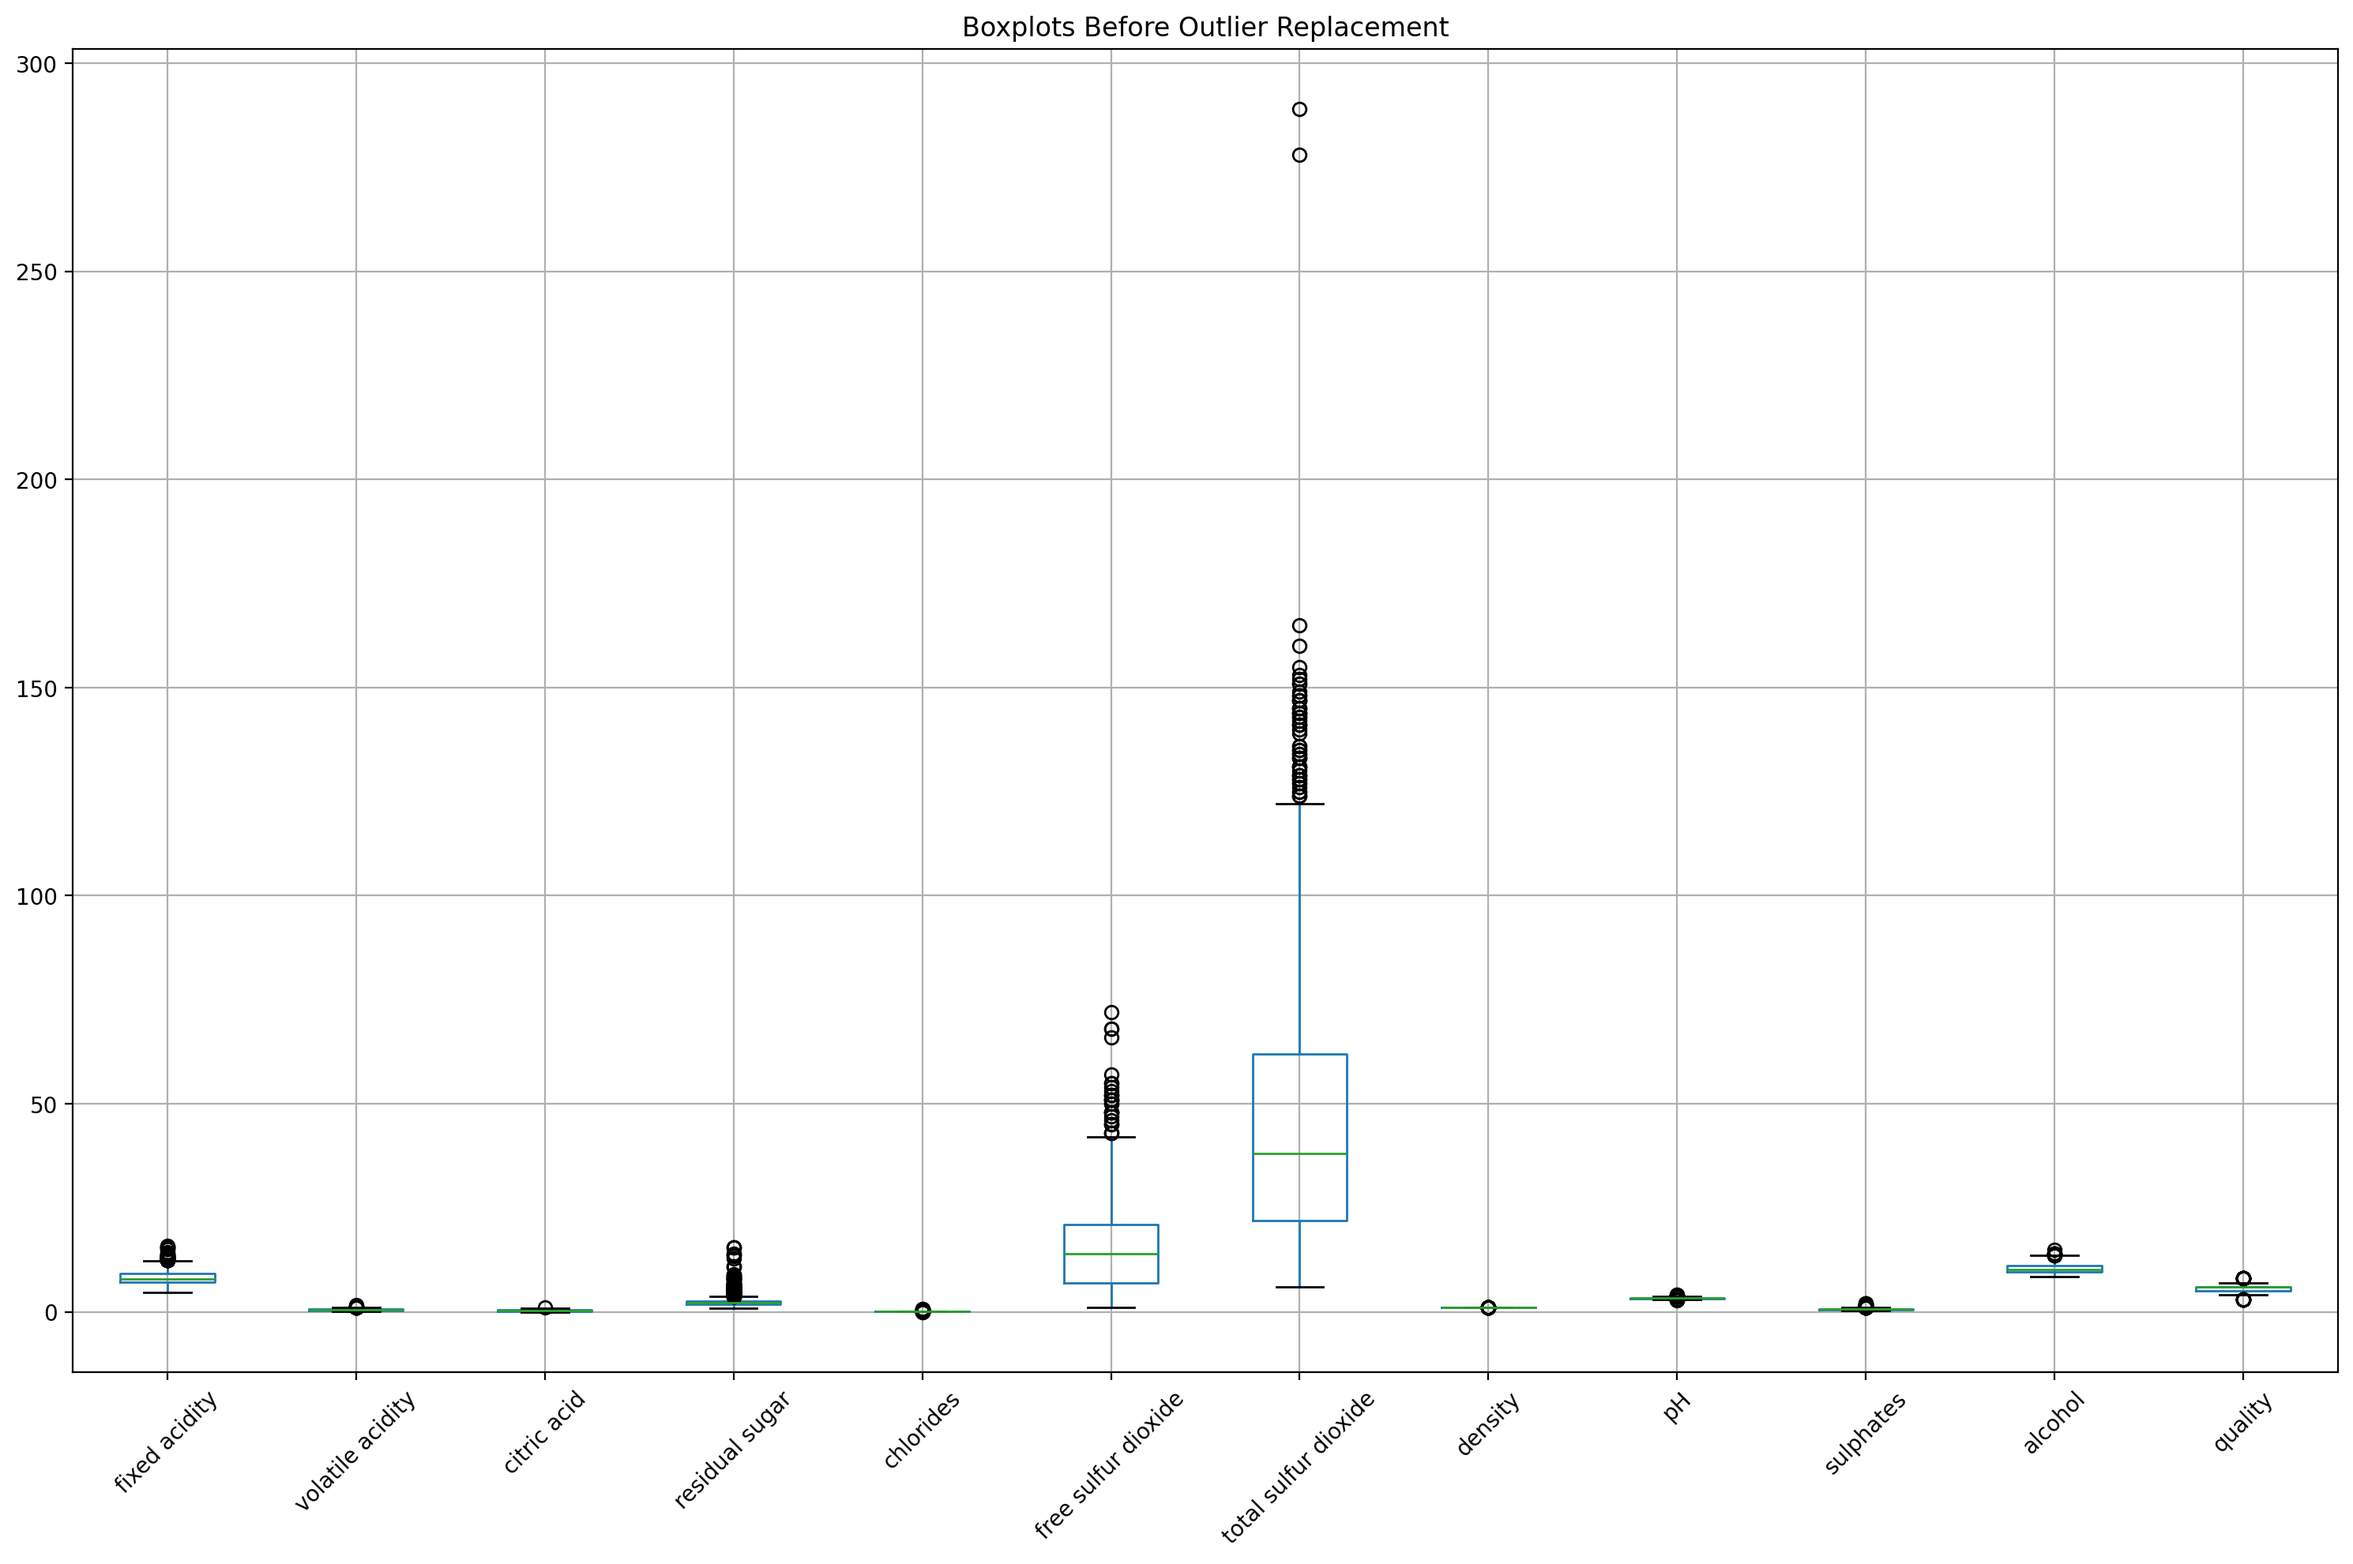
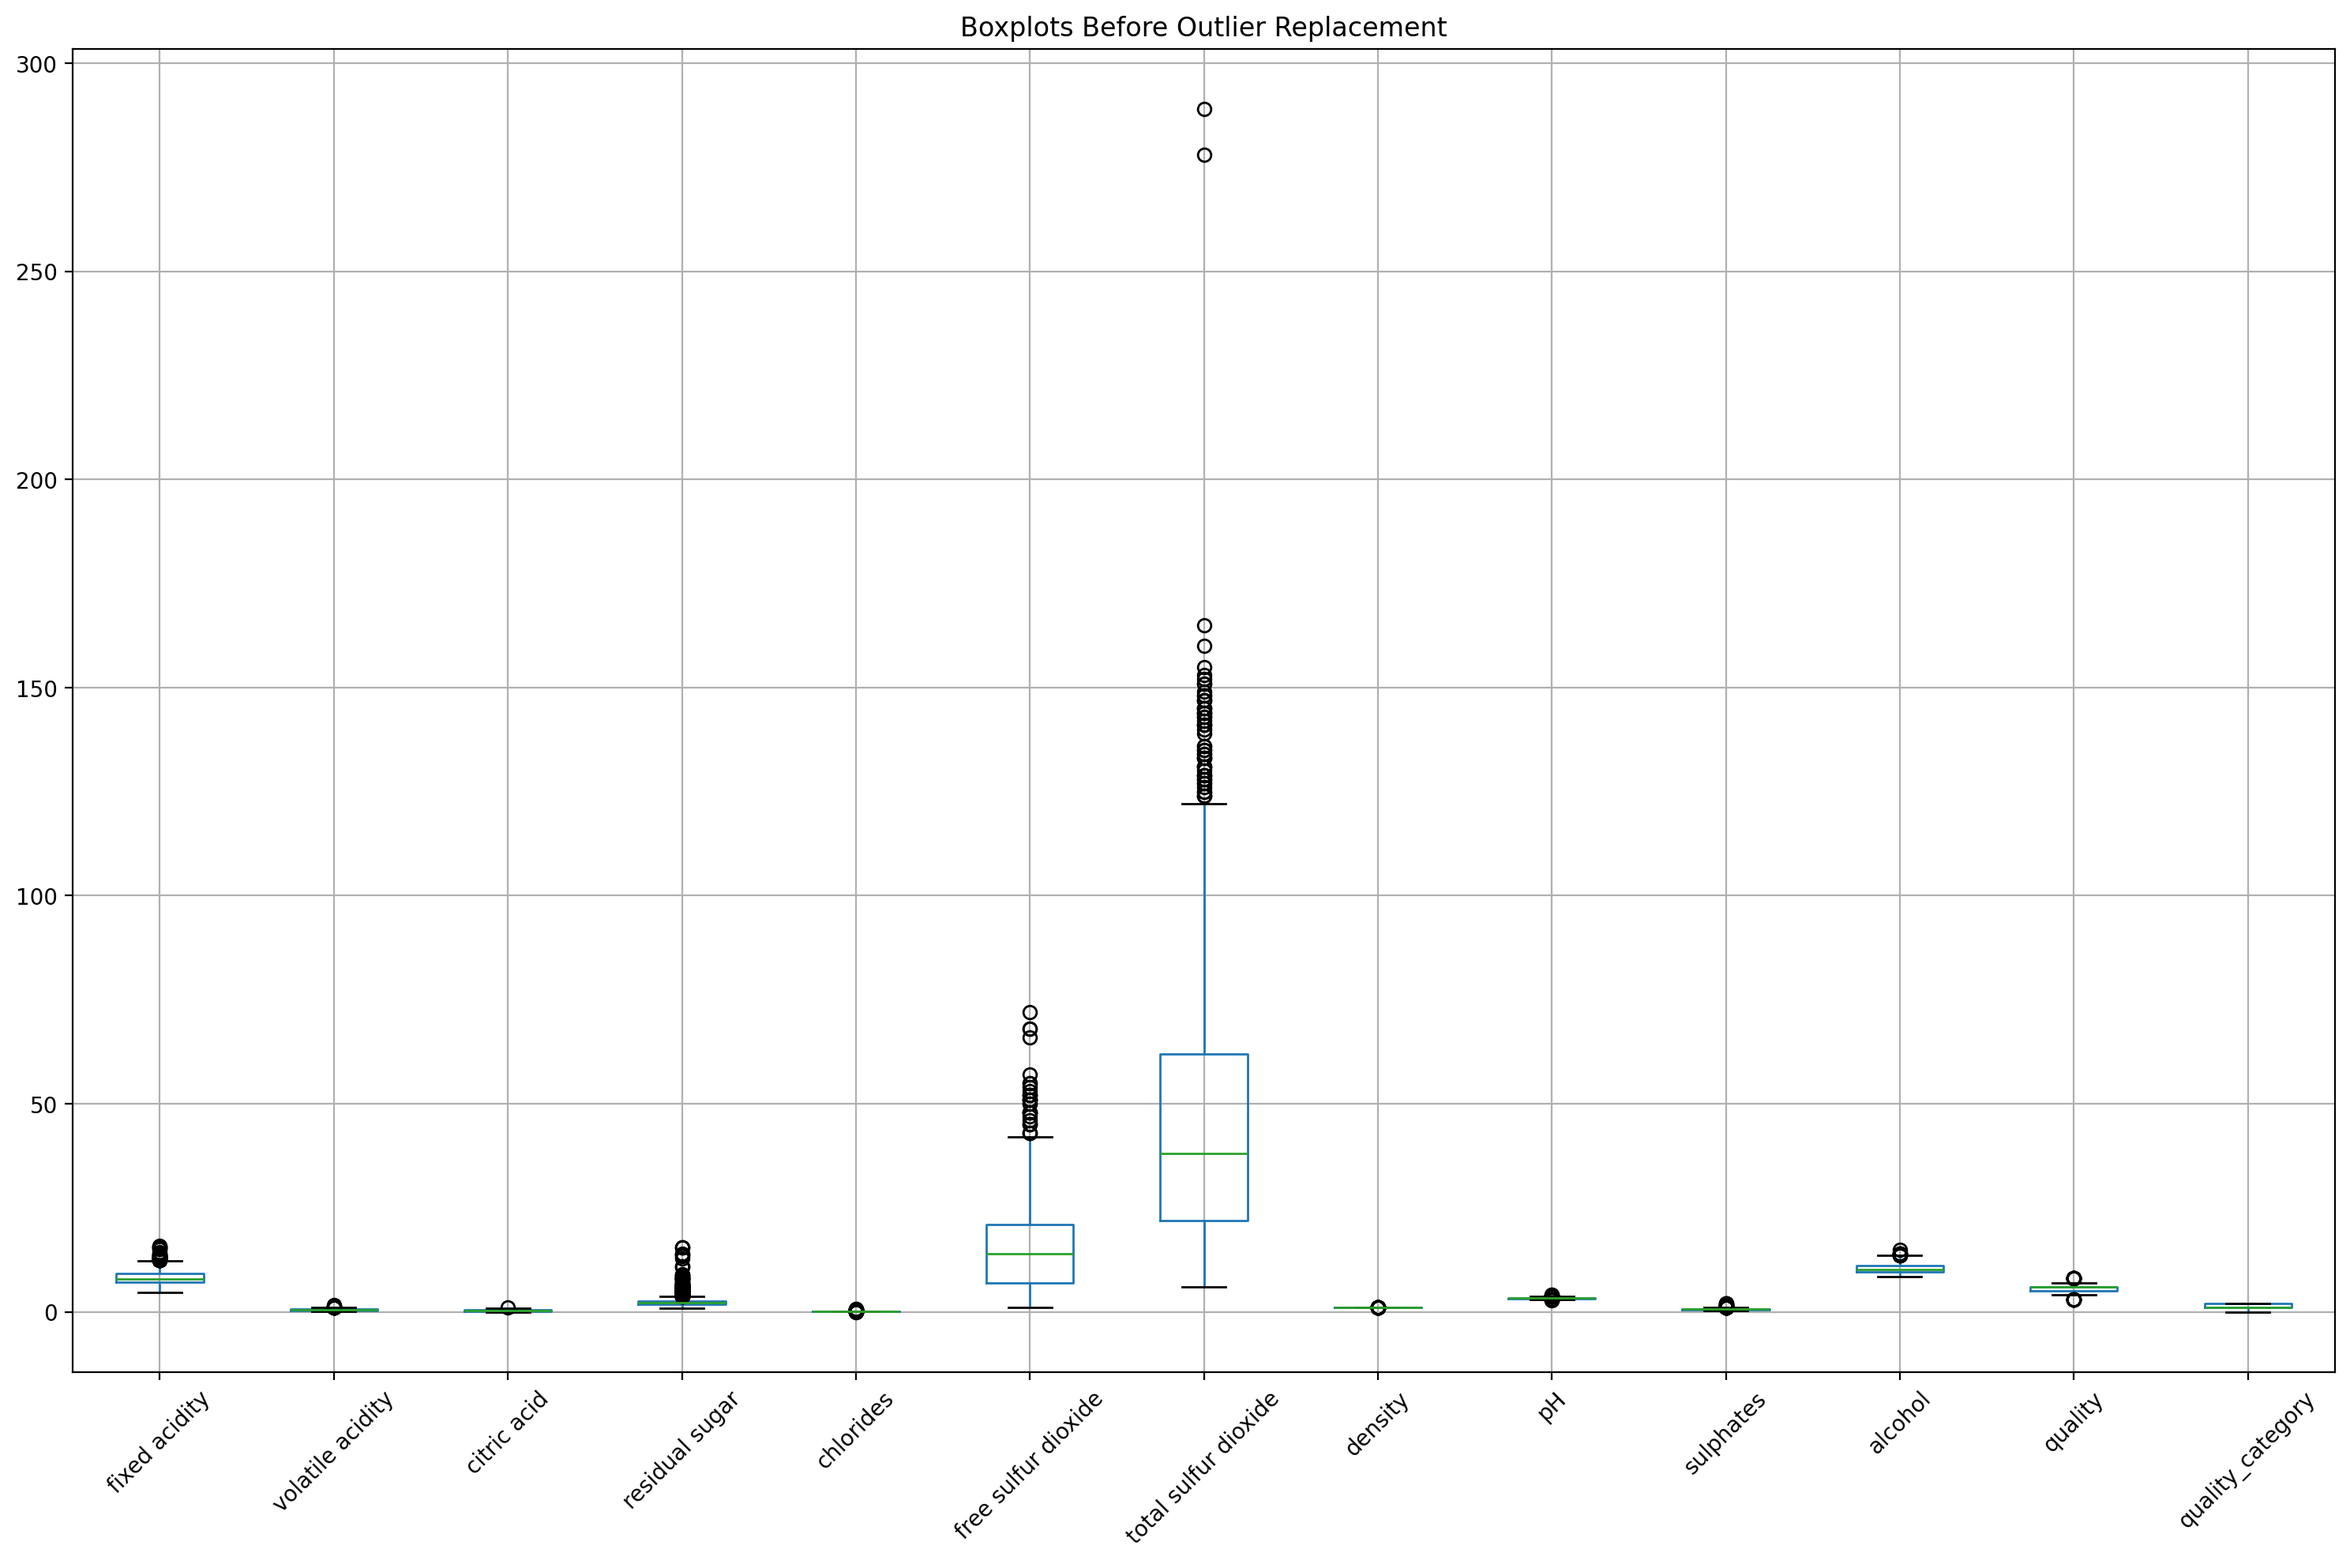
Test.py düzenlendi.

diff --git a/Miuul_Proje/Test.py b/Miuul_Proje/Test.py
@@ -1,11 +1,13 @@
 import pandas as pd
 import numpy as np
 import matplotlib.pyplot as plt
-from sklearn.model_selection import train_test_split
+from sklearn.model_selection import train_test_split, cross_val_score, GridSearchCV
 from sklearn.metrics import accuracy_score, classification_report, confusion_matrix
 from sklearn.ensemble import RandomForestClassifier
 from sklearn.linear_model import LogisticRegression
 from xgboost import XGBClassifier
+from sklearn.preprocessing import StandardScaler
+from sklearn.pipeline import Pipeline
 import warnings
 
 warnings.filterwarnings('ignore')
@@ -34,25 +36,58 @@ X = df.drop(['quality', 'quality_category'], axis=1)
 y = df['quality_category']
 
 # Split data
-X_train, X_test, y_train, y_test = train_test_split(X, y, test_size=0.2, random_state=1)
+X_train, X_test, y_train, y_test = train_test_split(X, y, test_size=0.2, random_state=1, stratify=y)
 
-# Define models
-models = {
+# Define model parameters for grid search
+param_grid = {
+    'Random Forest': {
+        'classifier__n_estimators': [100, 200],
+        'classifier__max_depth': [10, 20],
+        'classifier__min_samples_split': [2, 5]
+    },
+    'XGBoost': {
+        'classifier__n_estimators': [100, 200],
+        'classifier__max_depth': [3, 5],
+        'classifier__learning_rate': [0.01, 0.1]
+    },
+    'Logistic Regression': {
+        'classifier__C': [0.1, 1.0, 10.0],
+        'classifier__penalty': ['l2']
+    }
+}
+
+# Define base models
+base_models = {
     'Random Forest': RandomForestClassifier(random_state=1),
     'XGBoost': XGBClassifier(random_state=1),
     'Logistic Regression': LogisticRegression(random_state=1, max_iter=1000)
 }
 
+# Create pipelines with scaling
+models = {}
+for name, model in base_models.items():
+    models[name] = Pipeline([
+        ('scaler', StandardScaler()),
+        ('classifier', model)
+    ])
+
 # Train and evaluate models
 results = {}
 for name, model in models.items():
-    model.fit(X_train, y_train)
-    y_pred = model.predict(X_test)
+    # Perform grid search with cross validation
+    grid_search = GridSearchCV(model, param_grid[name], cv=5, scoring='accuracy', n_jobs=-1)
+    grid_search.fit(X_train, y_train)
+
+    # Get best model
+    best_model = grid_search.best_estimator_
+    y_pred = best_model.predict(X_test)
     accuracy = accuracy_score(y_test, y_pred)
     results[name] = accuracy
 
     print(f"\n{name} Results:")
+    print(f"Best Parameters: {grid_search.best_params_}")
     print(f"Accuracy: {accuracy:.4f}")
+    print(f"Cross-validation scores: {cross_val_score(best_model, X_train, y_train, cv=5)}")
     print("\nClassification Report:")
     print(classification_report(y_test, y_pred))
 
@@ -63,7 +98,6 @@ for name, model in models.items():
     plt.title(f'Confusion Matrix - {name}')
     plt.colorbar()
     plt.tight_layout()
-    # Instead of plt.show()
     plt.savefig(f"plot_ConfusionMatrix_{name}.png", dpi=100, bbox_inches="tight")
     plt.close()
 
@@ -75,81 +109,16 @@ plt.ylabel('Accuracy')
 plt.ylim(0, 1)
 plt.xticks(rotation=45)
 plt.tight_layout()
-# Instead of plt.show()
 plt.savefig("plot_ModelAccuracy.png", dpi=100, bbox_inches="tight")
 plt.close()
 
-# Create new dataframe for outlier analysis
-new_df = _df.copy()
-
-
-# Calculate outlier thresholds
-def calculate_limits(dataframe, col, q1=0.05, q3=0.95):
-    quartile1 = dataframe[col].quantile(q1)
-    quartile3 = dataframe[col].quantile(q3)
-    iqr = quartile3 - quartile1
-    up_limit = quartile3 + 1.5 * iqr
-    low_limit = quartile1 - 1.5 * iqr
-    return low_limit, up_limit
-
-cols = new_df.select_dtypes(include="number").columns.tolist()
+cols = df.select_dtypes(include="number").columns.tolist()
 
 # Create subplots for before replacement boxplots
 plt.figure(figsize=(15, 10))
-new_df.boxplot(column=cols)
+df.boxplot(column=cols)
 plt.xticks(rotation=45)
 plt.title('Boxplots Before Outlier Replacement')
 plt.tight_layout()
-# Instead of plt.show()
 plt.savefig("plot_BoxPlots_Before.png", dpi=200, bbox_inches="tight")
-plt.close()
-
-# Replace outliers
-for column in new_df.columns:
-    lower_limit, upper_limit = calculate_limits(new_df, column)
-    new_df.loc[new_df[column] > upper_limit, column] = upper_limit
-    new_df.loc[new_df[column] < lower_limit, column] = lower_limit
-
-# Create subplots for after replacement boxplots
-plt.figure(figsize=(15, 10))
-new_df.boxplot(column=cols)
-plt.xticks(rotation=45)
-plt.title('Boxplots After Outlier Replacement')
-plt.tight_layout()
-# Instead of plt.show()
-plt.savefig("plotBoxPlots_After.png", dpi=200, bbox_inches="tight")
-plt.close()
-
-# Prepare data for modeling with outlier handled dataset
-new_df['quality_category'] = new_df['quality'].apply(label_quality)
-X_new = new_df.drop(['quality', 'quality_category'], axis=1)
-y_new = new_df['quality_category']
-
-# Split data
-X_train_new, X_test_new, y_train_new, y_test_new = train_test_split(X_new, y_new, test_size=0.2, random_state=1)
-
-# Train and evaluate models with new data
-results_new = {}
-for name, model in models.items():
-    model.fit(X_train_new, y_train_new)
-    y_pred_new = model.predict(X_test_new)
-    accuracy_new = accuracy_score(y_test_new, y_pred_new)
-    results_new[name] = accuracy_new
-
-# Compare accuracies
-plt.figure(figsize=(12, 6))
-x = np.arange(len(results))
-width = 0.35
-
-plt.bar(x - width / 2, results.values(), width, label='Original')
-plt.bar(x + width / 2, results_new.values(), width, label='After Outlier Handling')
-
-plt.xlabel('Models')
-plt.ylabel('Accuracy')
-plt.title('Model Accuracy Comparison - Before vs After Outlier Handling')
-plt.xticks(x, results.keys(), rotation=45)
-plt.legend()
-plt.tight_layout()
-# Instead of plt.show()
-plt.savefig("plot_After_Outlier_Accuracy_Comparison.png", dpi=100, bbox_inches="tight")
 plt.close()
